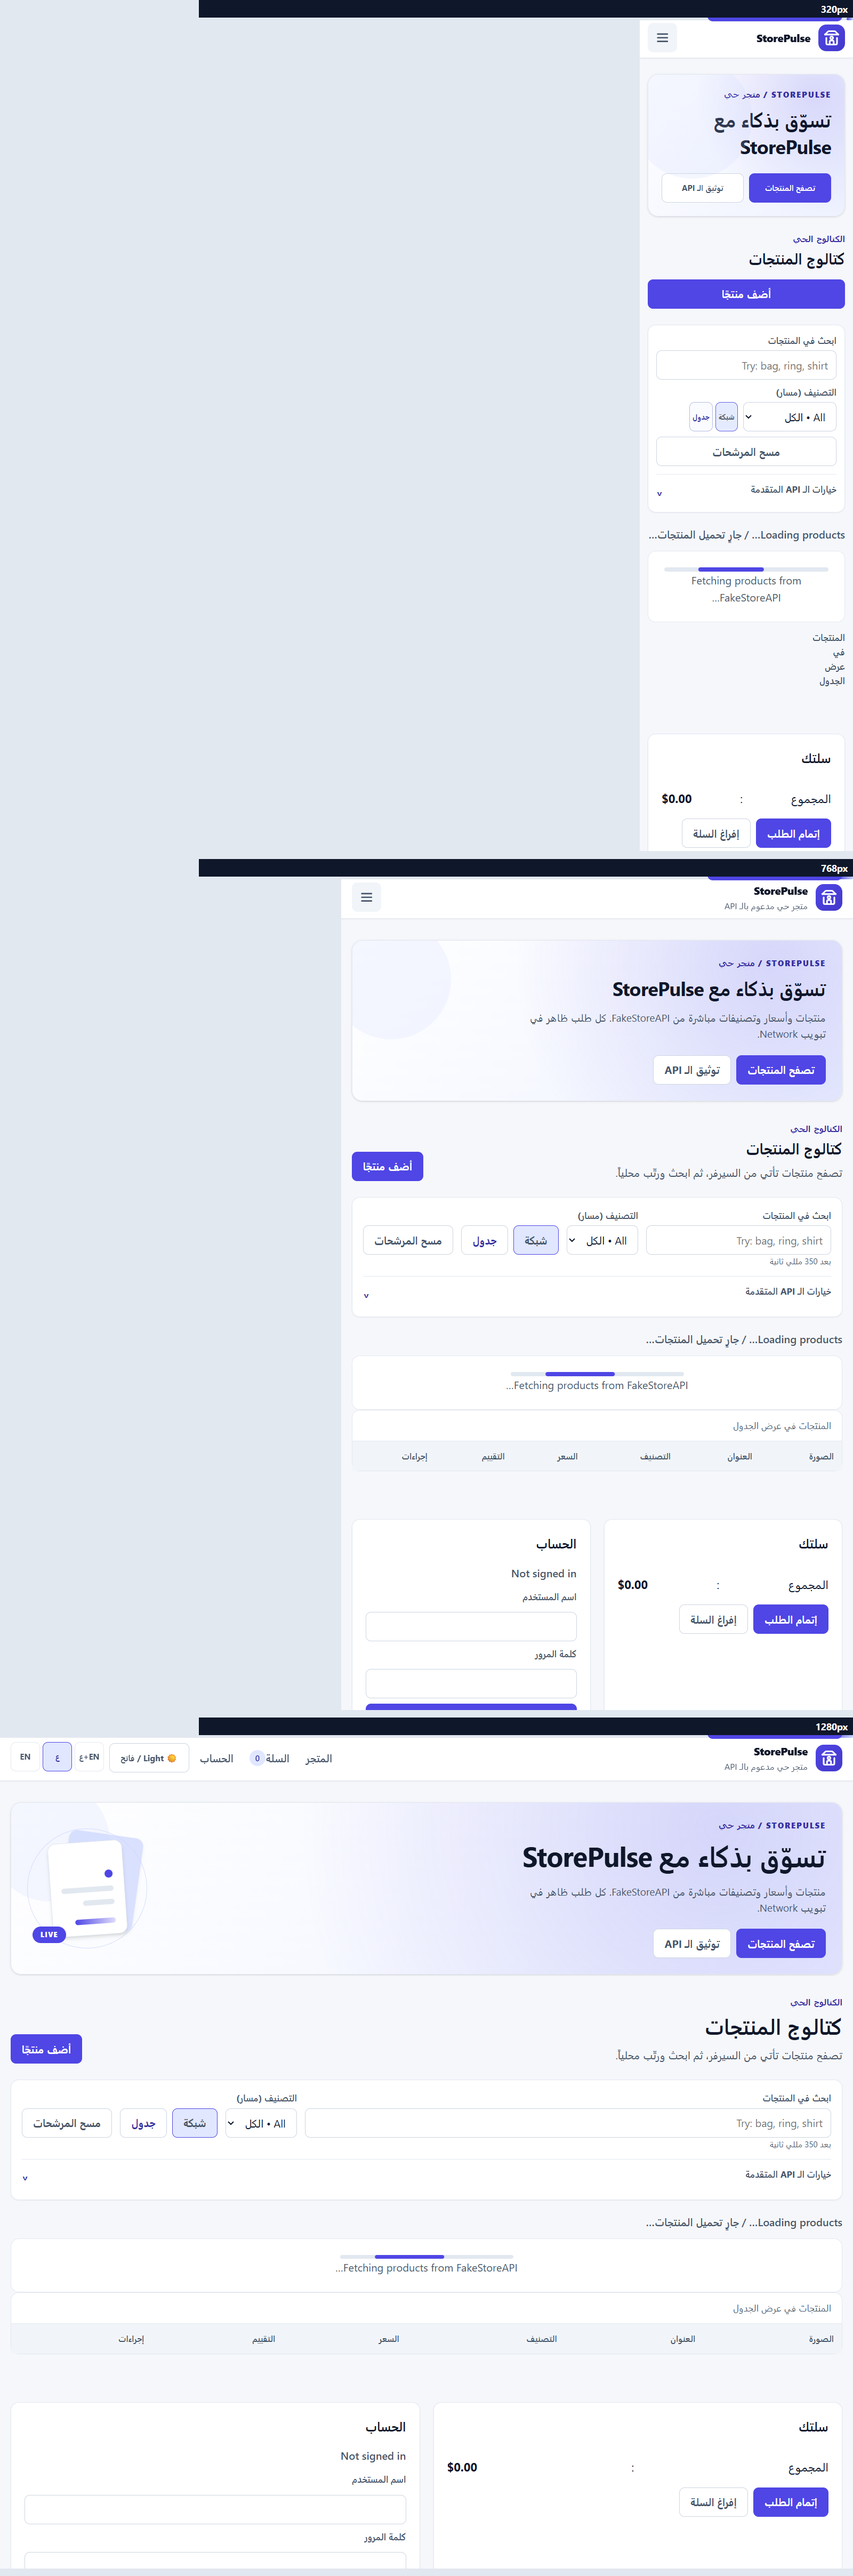
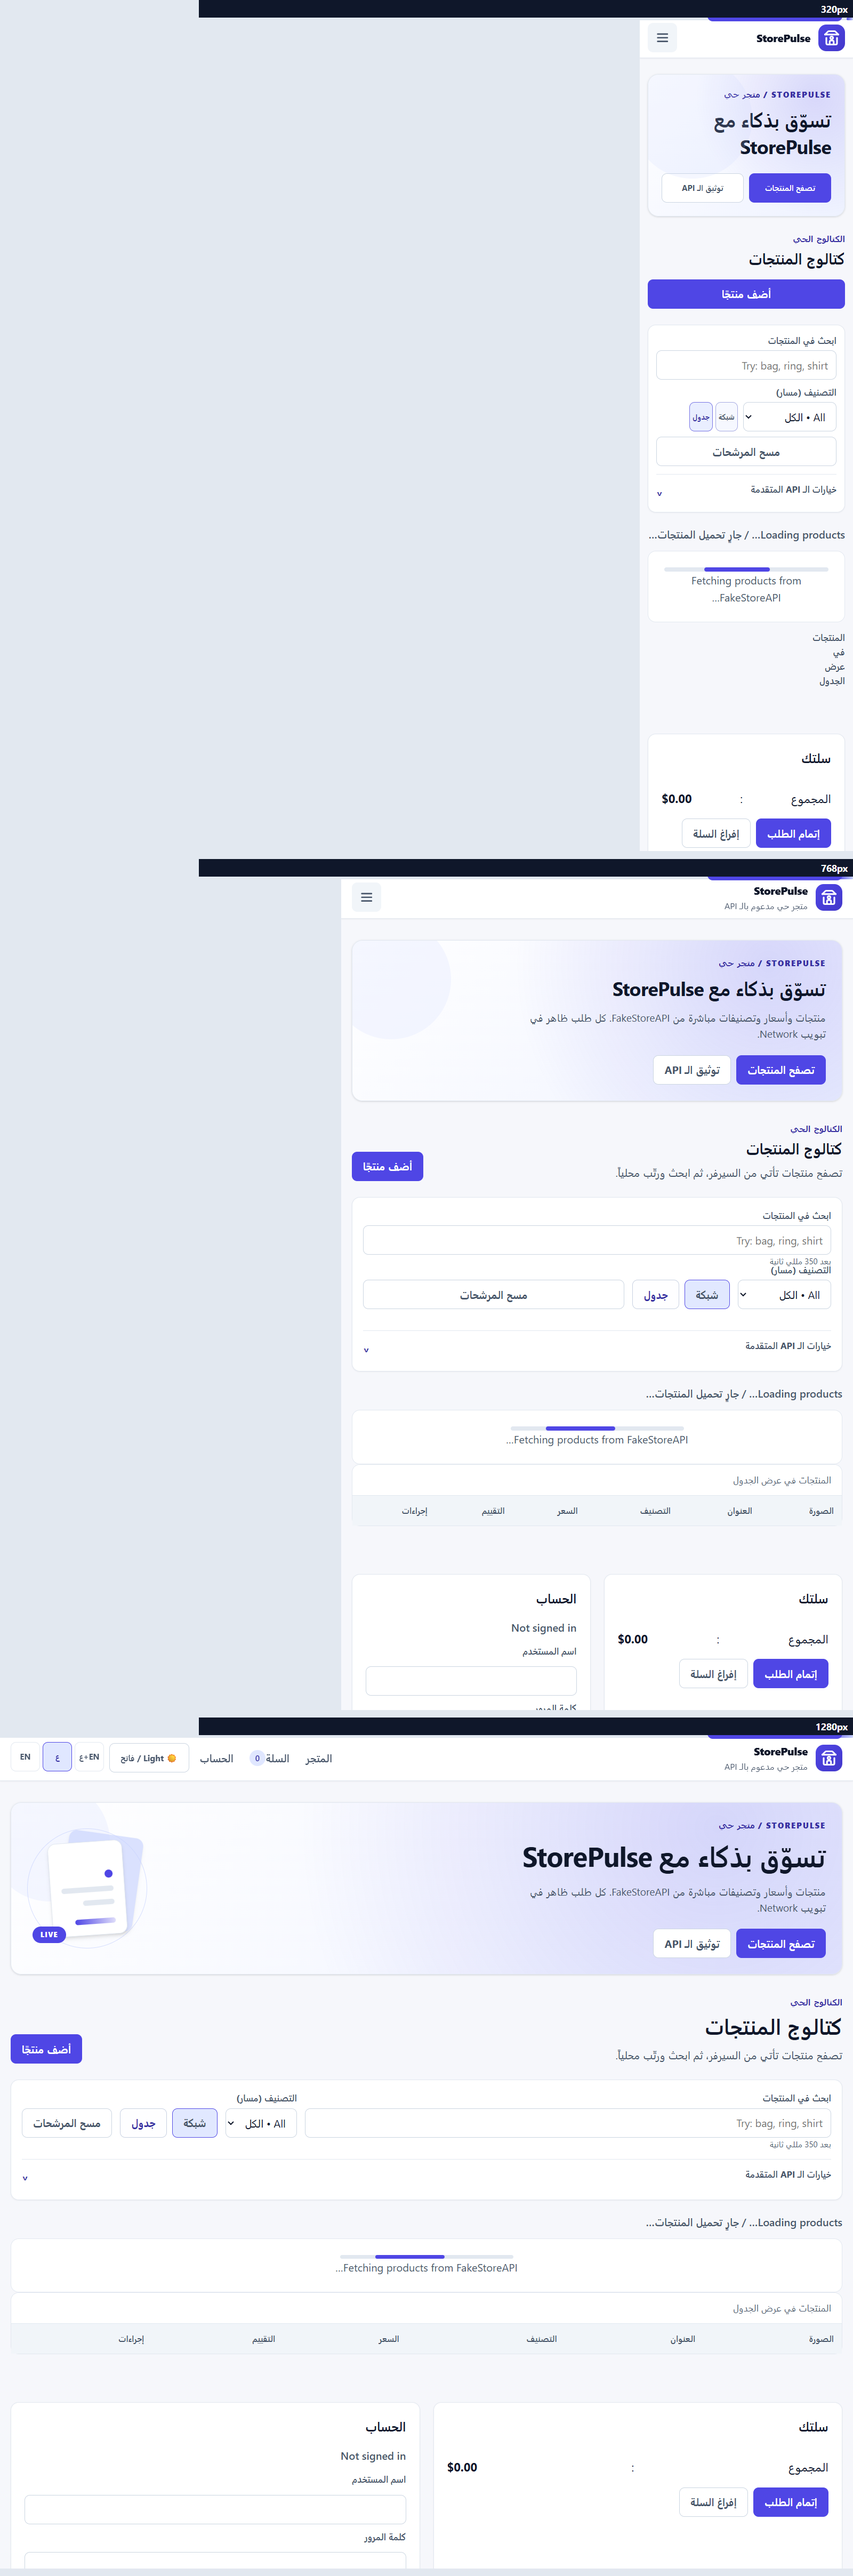
Fix login, simulated CRUD writes, and the 680px filter bar
Show the public demo credentials, keep created/edited/deleted products and new categories visible in the current session because FakeStoreAPI only echoes writes, and wrap the filter toolbar from 768px down so no control is clipped at 680px. Refresh docs, viewer line refs, study file and evidence.

diff --git a/script.js b/script.js
@@ -61,6 +61,10 @@ const state = {
   products: [],
   categories: [],
   filteredProducts: [],
+  /* FakeStoreAPI only echoes writes; keep them in memory so CRUD is visible. */
+  localProducts: [],
+  editedProducts: {},
+  deletedIds: [],
   filters: { ...DEFAULT_FILTERS },
   page: 1,
   pageSize: 10,
@@ -236,6 +240,37 @@ async function requestJson(url, options = {}) {
   }
 }
 
+/* FakeStoreAPI does not persist writes, so merge our in-memory results into reads. */
+function sameProductId(first, second) {
+  return Number(first) === Number(second);
+}
+
+function mergeCatalogue(serverProducts) {
+  const source = Array.isArray(serverProducts) ? serverProducts : [];
+  const preserved = source
+    .filter((product) => !state.deletedIds.some((id) => sameProductId(id, product.id)))
+    .map((product) => {
+      const edited = state.editedProducts[product.id] || state.editedProducts[String(product.id)];
+      return edited ? { ...product, ...edited } : product;
+    });
+
+  const usedIds = new Set(preserved.map((product) => Number(product.id)));
+  const additions = state.localProducts.filter((product) => {
+    if (state.filters.category !== 'all' && product.category !== state.filters.category) return false;
+    if (usedIds.has(Number(product.id))) return false;
+    usedIds.add(Number(product.id));
+    return true;
+  });
+
+  return [...additions, ...preserved];
+}
+
+function rememberCategory(category) {
+  const clean = String(category || '').trim();
+  if (!clean || state.categories.includes(clean)) return;
+  state.categories = [...state.categories, clean];
+}
+
 async function loadCatalogue() {
   state.status = 'loading';
   render();
@@ -246,8 +281,9 @@ async function loadCatalogue() {
       requestJson(buildProductsUrl())
     ]);
 
-    state.categories = Array.isArray(categories) ? categories : [];
-    state.products = Array.isArray(products) ? products : [];
+    state.categories = Array.isArray(categories) ? [...categories] : [];
+    state.localProducts.forEach((product) => rememberCategory(product.category));
+    state.products = mergeCatalogue(products);
     state.error = '';
     state.status = 'ready';
     populateCategorySelect();
@@ -268,7 +304,8 @@ async function reloadProducts() {
 
   try {
     const products = await requestJson(buildProductsUrl());
-    state.products = Array.isArray(products) ? products : [];
+    state.products = mergeCatalogue(products);
+    populateCategorySelect();
     state.error = '';
     state.status = 'ready';
     applyLocalFilters();
@@ -954,7 +991,7 @@ async function handleLogin(event) {
 
     if (!response.ok) {
       throw new Error(response.status === 401
-        ? 'Wrong username or password (401).'
+        ? 'Wrong username or password (401). استخدم الحساب التجريبي الظاهر أدناه.'
         : `Login failed (HTTP ${response.status}).`);
     }
 
@@ -1092,11 +1129,47 @@ async function handleProductSubmit(event) {
       headers,
       body: JSON.stringify(payload)
     });
-    showToast(`${editingId ? 'Updated' : 'Created'} product ${saved?.id ?? editingId ?? ''}`.trim());
+    const savedObject = saved && typeof saved === 'object' ? saved : {};
+    const knownIds = [...state.products, ...state.localProducts].map((item) => Number(item.id));
+    let id = Number(savedObject.id);
+    if (!Number.isFinite(id) || knownIds.includes(id)) id = Math.max(0, ...knownIds) + 1;
+
+    const product = {
+      id,
+      title: payload.title,
+      price: payload.price,
+      description: payload.description,
+      image: payload.image,
+      category: payload.category,
+      rating: savedObject.rating || { rate: 0, count: 0 },
+      ...savedObject
+    };
+    product.id = id;
+    rememberCategory(product.category);
+
+    if (editingId) {
+      const originalId = Number(editingId);
+      const updated = { ...product, id: originalId };
+      state.editedProducts[originalId] = updated;
+      state.products = state.products.map((item) => sameProductId(item.id, originalId) ? { ...item, ...updated } : item);
+      state.localProducts = state.localProducts.map((item) => sameProductId(item.id, originalId) ? { ...item, ...updated } : item);
+    } else {
+      state.products = [product, ...state.products.filter((item) => !sameProductId(item.id, id))];
+      state.localProducts = [product, ...state.localProducts.filter((item) => !sameProductId(item.id, id))];
+    }
+
+    /* Make the new category/product visible instead of hiding it behind old filters. */
+    state.filters.category = product.category;
+    state.filters.search = '';
+    state.page = 1;
     state.draft = null;
     writeJson(sessionStorage, SESSION_KEYS.draft, null);
     byId('product-form-dialog').close();
-    await reloadProducts();
+    populateCategorySelect();
+    applyLocalFilters();
+    persistSessionState();
+    render();
+    showToast(`${editingId ? 'Updated' : 'Created'} product ${id} — ظاهر في هذه الجلسة لأن FakeStoreAPI يحاكي الحفظ فقط.`);
   } catch (error) {
     showToast(`Save failed: ${error.message}`);
   }
@@ -1108,8 +1181,16 @@ function askBeforeDelete(product) {
     if (state.token) headers.Authorization = `Bearer ${state.token}`;
     try {
       const removed = await requestJson(`${API_BASE_URL}/products/${product.id}`, { method: 'DELETE', headers });
-      showToast(`Delete accepted for product ${removed?.id ?? product.id}.`);
-      await reloadProducts();
+      const id = Number(product.id);
+      state.deletedIds = [...state.deletedIds.filter((item) => Number(item) !== id), id];
+      state.products = state.products.filter((item) => !sameProductId(item.id, id));
+      state.localProducts = state.localProducts.filter((item) => !sameProductId(item.id, id));
+      delete state.editedProducts[id];
+      state.favourites = state.favourites.filter((favourite) => Number(favourite) !== id);
+      persistLocalState();
+      applyLocalFilters();
+      render();
+      showToast(`Delete accepted for product ${removed?.id ?? id} — removed in this session.`);
     } catch (error) {
       showToast(`Delete failed: ${error.message}`);
     }

diff --git a/index.html b/index.html
@@ -232,6 +232,7 @@
         </form>
         <button class="btn btn-outline" id="logout-button" type="button" hidden><span class="bi-en" lang="en">Sign out</span><span class="bi-ar" lang="ar" dir="rtl">خروج</span></button>
         <p class="privacy-note"><span class="bi-en" lang="en">The password is sent to the API but never stored in the browser.</span><span class="bi-ar" lang="ar" dir="rtl">تُرسل كلمة المرور إلى الـ API ولا تُخزَّن في المتصفح أبدًا.</span></p>
+        <p class="privacy-note"><span class="bi-en" lang="en">Public FakeStoreAPI demo user (not a secret): <code>mor_2314</code> / <code>83r5^_</code></span><span class="bi-ar" lang="ar" dir="rtl">حساب تجريبي عام في FakeStoreAPI (ليس سرياً): <code>mor_2314</code> / <code>83r5^_</code></span></p>
       </aside>
     </div>
 

diff --git a/style.css b/style.css
@@ -1459,10 +1459,8 @@ textarea {
   .cart-item {
     grid-template-columns: 1fr auto;
   }
-}
 
-/* Phones wrap the toolbar and turn the table into labelled cards: no sideways scroll. */
-@media (max-width: 640px) {
+  /* From here down the one-row toolbar would clip its last control, so wrap it. */
   .filter-primary {
     flex-wrap: wrap;
   }
@@ -1480,7 +1478,10 @@ textarea {
   .clear-button {
     flex: 1 1 auto;
   }
+}
 
+/* Phones turn the table into labelled cards: no sideways scroll. */
+@media (max-width: 640px) {
   .table-wrap {
     border: 0;
     background: none;

diff --git a/README.md b/README.md
@@ -38,7 +38,7 @@ Opening `index.html` directly with `file://` also works for layout, but a local 
 - The thin line at the very top is a scroll-progress indicator: a subtle track plus a theme-coloured fill that grows from the inline start as the page scrolls (`--scroll-progress`, updated on a passive/rAF-throttled scroll listener).
 - Three switchable themes: **Light**, **Dark** and **Sunrise** — one repeatedly-pressable button cycles them; the first visit still follows `prefers-color-scheme`.
 - English / Arabic / Both switcher inherited from `api.html`; the first visit starts in single-language Arabic (`dir="rtl"`), while **Both** remains available as a learning aid.
-- Compact toolbar: search, category, view and clear share **one straight row** from 641 px upward; on phones they wrap into short rows instead of scrolling sideways. `?sort=`, `?limit=`, page size and browser sort live in an accessible `<details>` panel.
+- Compact toolbar: search, category, view and clear share **one straight row** from 769 px upward; at 768 px and below (including 680 px) they wrap into short rows instead of clipping the last control or scrolling sideways. `?sort=`, `?limit=`, page size and browser sort live in an accessible `<details>` panel.
 - No sideways scroll anywhere: the table keeps its real `<table>` markup but becomes labelled cards at 640 px and below; dialogs only scroll vertically.
 - Loading, error and empty states with retry and a one-click "clear filters" action; clear feedback through a live-region toast.
 - Clicking a product image, title or table thumbnail opens details; the detail dialog also has add-to-cart and favourite actions, closes on backdrop/Esc, and failed images get a local SVG fallback.
@@ -99,11 +99,11 @@ Passwords, secret keys, personal data and the full product list. The token is ne
 | PATCH | `/products/1` with Bearer token | 200 |
 | DELETE | `/products/1` with Bearer token | 200 |
 | POST | `/auth/login` wrong password | 401 plain text |
-| POST | `/auth/login` valid demo credentials | 201 with token |
+| POST | `/auth/login` valid demo credentials (`mor_2314` / `83r5^_`) | 201 with token |
 | POST | `/products` with Bearer token | 201 |
 | POST | `/carts` with Bearer token | 201 |
 
-FakeStoreAPI only simulates writes; it does not permanently save them. An unknown product id may answer `200` with an empty body, and a wrong password answers `401` with plain text rather than JSON.
+FakeStoreAPI only simulates writes; it does not permanently save them. This app therefore keeps created/edited/deleted products and any new category in memory for the current session, so CRUD is visibly reflected even though a later `GET` cannot return it. An unknown product id may answer `200` with an empty body, and a wrong password answers `401` with plain text rather than JSON. The public demo login is shown in the account panel (`mor_2314` / `83r5^_`); it is a documented test user, not a secret, and only the resulting token is stored in `sessionStorage`.
 
 ## Scaling to 5,000 products
 
@@ -141,6 +141,7 @@ The response would include the 20 products plus a total count (or a `x-total-cou
 | `evidence/M3-responsive-light.png` | 320 / 768 / 1280 px in the light theme. |
 | `evidence/M3-responsive-dark.png` | 320 / 768 / 1280 px in the dark theme. |
 | `evidence/M3-responsive-sunrise.png` | 320 / 768 / 1280 px in the sunrise theme. |
+| `evidence/M3-filter-680.png` | 680 px: filter controls wrap into short rows — nothing clipped, no sideways scroll. |
 | `evidence/M5-network-requests.png` | Headers, Payload and Response for every endpoint used. |
 | `evidence/M6-stress-test.png` | The three 5,000-product timings and median. |
 | `evidence/M6-table-view.png` | Real table view with 10 rows at 320 px, stacked as labelled cards with no sideways scroll. |
@@ -151,7 +152,7 @@ The response would include the 20 products plus a total count (or a `x-total-cou
 
 - **Full suite:** 72 automated checks were repeated 20 times with a fresh tab and empty storage each run: **1440/1440 passed**.
 - **Console:** clean on load and throughout the suite, zero uncaught errors. The only console error seen was the expected 401 from the deliberate wrong-password test.
-- **Responsive:** no horizontal scroll at 320, 480, 640, 768 or 1280 px in any theme; no section has an `overflow-x: auto/scroll` container. The filter row stays straight from 641 px and wraps on phones; the table becomes labelled cards at ≤640 px; dialogs scroll vertically only. Hamburger appears at ≤768 px and is hidden at 1280 px.
+- **Responsive:** no horizontal scroll at 320, 480, 640, 680, 768 or 1280 px in any theme; no section has an `overflow-x: auto/scroll` container. The filter row stays straight from 769 px and wraps from 768 px down (so nothing is clipped at 680 px); the table becomes labelled cards at ≤640 px; dialogs scroll vertically only. Hamburger appears at ≤768 px and is hidden at 1280 px.
 - **Touch targets:** every interactive button/control measured at least 44 px in all three tested widths.
 - **Keyboard:** the first focusable element is the skip link; activating it moves focus to `main`; `Tab` reaches search in four steps; typing works; `:focus-visible` outlines are present.
 - **Browsers:** automated checks ran in Chromium. A second-browser check was not possible in this environment, so it remains a manual review item.
